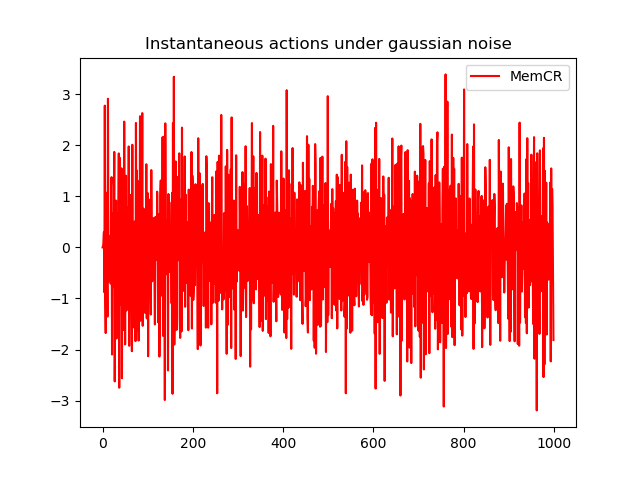
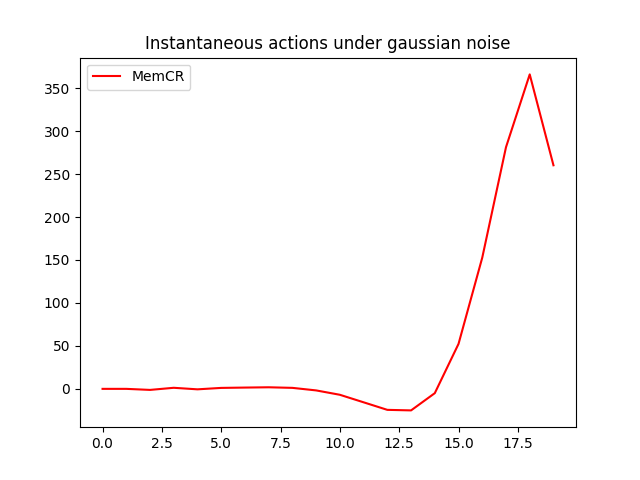
error

diff --git a/deluca/utils/optimR.py b/deluca/utils/optimR.py
@@ -18,17 +18,22 @@ class optimROBD(object):
     2) how do we do the projection using scipy?
     '''
 
-    def __init__(self, Cs, p, T, d, prevH, n, lam=0):
+    def __init__(self, Cs, p, T, d, prevH, n, ps, lam=0):
         self._lam = lam
         self._l1 = lam
         self._l2 = 0
         self._Cs = np.array(Cs)
+        lsum = 0
+        for C in Cs:
+            lsum += np.linalg.norm(C)
+        print("alpha: " + str(lsum))
         self._p = p
         self._T = T
         self._prevH = prevH
-        self._yhats = np.ndarray((T, d))
+        self._yhats = np.zeros((T, d))
         self._d = d
         self._n = n
+        self._ps = ps
 
     # does a specific instance of oROBD
     # h_t comes from the control algorithm
@@ -42,7 +47,9 @@ class optimROBD(object):
         self._yhats[t-1, :] = self.robdSub(prevFunc, t-1, v_tminus)
 
         print("double min")
-        vtilde = self.findSetMin(self.doubleFunc(h_t, t), omega_t)
+        vtilde = self.findSetMin(self.doubleFunc(h_t, t), omega_t, radius_t)
+        # vtilde = omega_t
+        print(vtilde)
 
         fhatFunc = self.hittingCost(h_t, vtilde)
         self._prevH = h_t
@@ -59,62 +66,63 @@ class optimROBD(object):
             val = h_t(y - v) + self._lam * self.cost(t)(y)
             return val
         return func
-    
-    #TODO: change if necessary
-    def constraint(self, omega_t):
-        def func(params):
-            y = params[:self._d]
-            v = params[self._d:]
-            if tuple(v) in omega_t:
-                return 0
-            return 1 #return a non-zero element
-        return func
-
-    ''' To implement from here '''  
 
     #TODO: incorporate projection
-    def findSetMin(self, function, omega_t):
+    def findSetMin(self, function, omega_t, radius_t):
         x0 = (np.random.randn(self._d), np.random.randn(self._d))
         # constraint: must be in the set omega_t
-        '''
-        cons = ({'type': 'eq', 'fun': self.constraint(omega_t)})
 
-        result = minimize(function, x0, method = 'SLSQP', constraints=cons)
-        '''
-
-        print("scipy minimize")
         result = minimize(function, x0, method='Nelder-Mead')
         
         if result.success:
             fitted_params = np.array(result.x[1]) #want to return v?
-            return fitted_params
+            diff = fitted_params - omega_t
+            norm = np.linalg.norm(diff)
+            q = (radius_t/norm)*diff
+            final = q + omega_t
+            return final
         else:
             raise ValueError(result.message)
     
+    '''
+    no longer necessary
+
     # Find the d x 1 vector y that minimizes the function parameter
     # TODO: change to convex optimizer
     def _findMin(self, func):
         x0 = np.random.rand(self._d)
         res = minimize(func, x0, method='BFGS', options={'disp':False})
         return np.array(res.x)
-
-    ''' End to implement here'''
-
-    # subroutine for ROBD and optimistic ROBD
-    def robdSub(self, fun, t, v_tminus):
-        vel = self._findMin(fun)
-        print("scipy val: " + str(vel))
-        print("numerical val: " + str(v_tminus))
-
-        # below line: find minimum of entire expression with respect to y
-        out = self._findMin(self.totalCost(fun, vel, t))
-        return out
-    
+        
     # precondition: v_t must be a numpy array
     def totalCost(self, fun, v_t, t):
         def func(y):
             return fun(y) + self._l1 * self.cost(t)(y) + self._l2 * self.dist(v_t)(y)
         return func
+
+    '''
+
+    # subroutine for ROBD and optimistic ROBD
+    def robdSub(self, fun, t, v_tminus):
+        vel = v_tminus
+        # print("scipy val: " + str(self._findMin(fun)))
+        # print("numerical val: " + str(vel))
+
+        # below line: find minimum of entire expression with respect to y
+        # print("scipy val 2: " + str(self._findMin(self.totalCost(fun, vel, t))))
+
+        if self._l1 == 0:
+            val = vel
+        else:
+            lsum = 0
+            for i in range (1, self._p+1):
+                addVal = self._Cs[i-1] @ self._yhats[t - i]
+                lsum += addVal
+            
+            val = (self._l1 * lsum + np.multiply(self._ps, vel)) / (self._l1 + self._ps)
+
+        # print("numerical val 2: " + str(val))
+        return val
     
     #precondition: yhats, Cs must be numpy arrays
     def cost(self, t):
@@ -122,10 +130,9 @@ class optimROBD(object):
             Cs = self._Cs
 
             summ = np.zeros(self._d)
-            for i in range(self._p):
-                if t - i > 0:
-                    C = Cs[i]
-                    summ += np.matmul(C, self._yhats[t-i-1].T) #TODO: check
+            for idx, C in enumerate(self._Cs):
+                if t - idx > 0:
+                    summ += np.matmul(C, self._yhats[t-idx-1].T)
             norm = np.linalg.norm(y - summ)
             return (norm**2)/2
         return func

diff --git a/examples/agents/memTest.py b/examples/agents/memTest.py
@@ -26,18 +26,19 @@ def get_errs(T, controller, A, B, noise):
     actions = np.zeros((T,m))
     
     for i in tqdm(range(1, T)):
+        print("action: ")
         print(actions[i-1])
         print("state: ")
         print(states[i-1])
-        try:
-            actions[i] = controller(states[i-1], A, B, lam = 2)
-        except:
-            actions[i] = controller(states[i-1], lam = 2)
-            
-        if(noise=="normal"):
-            states[i] = A @ states[i-1] + B @ (actions[i] + np.array(np.random.normal(0, 0.2, size=(m,1)))[0]) # gaussian noise
+
+        if (noise == "normal"):
+            w_t = np.random.normal(0, 0.2, size=(m,1))[0]
         else:
-            states[i] = A @ states[i-1] + B @ (action[i] + np.random.normal(0, 0.2, size=(m,1)) *(i%300 < 150) + 0.4 * jnp.sin(i) *(i%300>= 150)) # add sine noise every 150 steps
+            w_t = np.random.normal(0, 0.2, size=(m,1)) *(i%300 < 150) + 0.4 * jnp.sin(i) *(i%300>= 150)
+
+        actions[i] = controller(states[i-1], w = w_t, lam = 0)
+            
+        states[i] = A @ states[i-1] + B @ (actions[i-1] + np.array(w_t)) # gaussian noise
         
         if(i % T//2 == 0): # switch system
             A,B = np.array([[1.,1.5], [0,1.]]), np.array([[0],[0.9]])
@@ -46,7 +47,7 @@ def get_errs(T, controller, A, B, noise):
     
     return states, errs, actions
 
-T = 1000
+T = 20
 
 A,B = np.array([[1.,.5], [0,1.]]), np.array([[0],[1.2]])
 
@@ -67,7 +68,7 @@ print("Memory incurs ", np.mean(mem_errs), " loss under gaussian iid noise")
 # print("AdaGPC incurs ", np.mean(ada_errs), " loss under gaussian iid noise")
 
 plt.title("Cumulative mean losses under gaussian iid noise")
-#plt.plot(cummean(gpc_errs), "green", label = "GPC")
+# plt.plot(cummean(gpc_errs), "green", label = "GPC")
 #plt.plot(cummean(ada_errs), "blue", label = "AdaGPC")
 plt.plot(cummean(mem_errs), "red", label = "MemCR")
 plt.legend()
@@ -75,7 +76,7 @@ plt.savefig('gaussianLoss.png')
 plt.clf()
 
 plt.title("Instantaneous actions under gaussian noise")
-#plt.plot(g_acts, "green", label = "GPC")
+# plt.plot(g_acts, "green", label = "GPC")
 #plt.plot(a_acts, "blue", label = "AdaGPC")
 plt.plot(m_acts, "red", label = "MemCR")
 plt.legend()
@@ -83,7 +84,7 @@ plt.savefig('gaussianAction.png')
 plt.clf()
 
 plt.title("Instantaneous states under gaussian noise")
-#plt.plot(gpc_state, "green", label = "GPC")
+# plt.plot(gpc_state, "green", label = "GPC")
 #plt.plot(ada_errs, "blue", label = "AdaGPC")
 plt.plot(mem_state, "red", label = "Mem")
 plt.legend()

diff --git a/deluca/agents/_mem.py b/deluca/agents/_mem.py
@@ -100,10 +100,10 @@ class Mem(Agent):
 
     # TODO: should update self._t internally
     # TODO: should send the actual derivative to optimROBD
-    def controlAlgo(self, radius_t, qs, lam):
+    def controlAlgo(self, w_t, radius_t, qs, lam):
         func = self.hitFunc(qs)
 
-        solver = optimROBD(self._Cs, self._p, self._T, self._d, func, self._n, lam)
+        solver = optimROBD(self._Cs, self._p, self._T, self._d, func, self._n, self._ps, lam)
 
         #TODO: add a default value for v_tminus: what happens when t = 0??
 
@@ -113,14 +113,15 @@ class Mem(Agent):
         if self._t > 0:
             subValue = self._xs[self._t]-np.matmul(self._A, self._xs[self._t - 1])-np.matmul(self._B, self._us[self._t-1])
             w_tminus = subValue[self._ks]
+            print("wt: " + str(w_tminus))
 
             self._etas[self._t-1] = w_tminus + self.etaMult()
             v_tminus = -1 * self._etas[self._t-1]
+            print("v_tminus: " + str(v_tminus)) 
 
-            omega = self.getOmega()
+            omega = -w_t + self.getOmega()
+            print("omega: " + str(omega))
 
-            print("solver step")
-            # TODO: change the parameters of solver
             self._ys[self._t] = solver.step(v_tminus, func, omega, radius_t, self._t)
 
         self._us[self._t] = self.getOuts()
@@ -141,6 +142,7 @@ class Mem(Agent):
 
     # for multiplying the zetas
     def etaMult(self):
+        print(self._etas)
         summ = 0
         for idx, C in enumerate(self._Cs):
             if self._t-2-idx >= 0: 
@@ -157,12 +159,13 @@ class Mem(Agent):
     def getOuts(self):
         lsum = 0
         for idx, C in enumerate(self._Cs):
-            lsum += np.matmul(C, self._ys[self._t-idx-1])
+            if self._t-1-idx >= 0: 
+                lsum += np.matmul(C, self._ys[self._t-idx-1])
         return self._ys[self._t] - lsum
     
     # takes in state, disturbance radius, qs, lambda
-    def __call__(self, state, radius_t=1, q_t=-1, lam=0):
-        if q_t == -1:
+    def __call__(self, state, w = 0, radius_t=1, qs = False, q_t = 0, lam=0):
+        if qs == False:
             q_t = np.ones((self._p+self._T))
-        self._xs[self._t, :] = state[0] # add it to the list
-        return self.controlAlgo(radius_t, q_t, lam)
+        self._xs[self._t] = state[0] # add it to the list
+        return self.controlAlgo(w, radius_t, q_t, lam)

diff --git a/deluca/agents/_gpc.py b/deluca/agents/_gpc.py
@@ -122,7 +122,7 @@ class GPC(Agent):
         self.policy_loss = policy_loss
         self.grad = jit(grad(policy_loss, (0, 1)))
 
-    def __call__(self, state: jnp.ndarray) -> jnp.ndarray:
+    def __call__(self, state: jnp.ndarray, w, lam) -> jnp.ndarray:
         """
         Description: Return the action based on current state and internal parameters.
 
